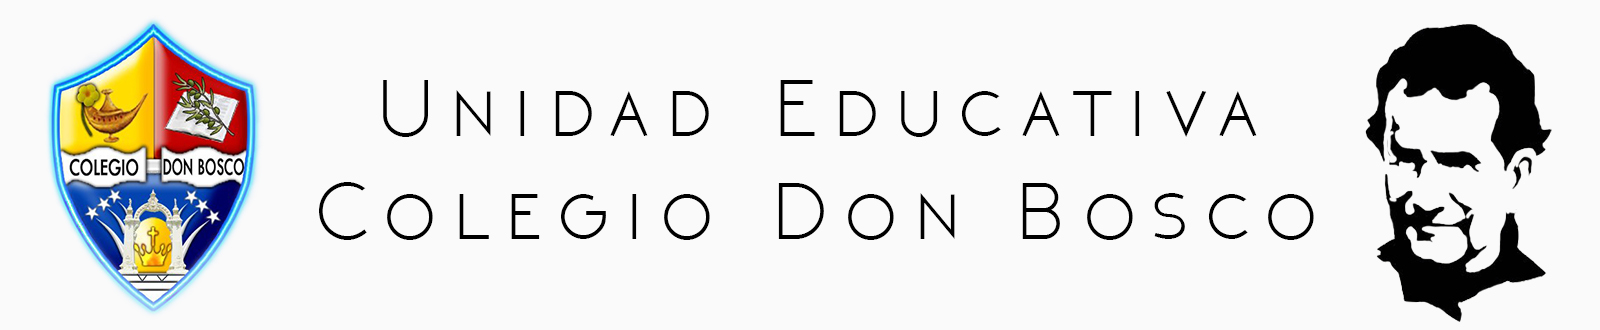
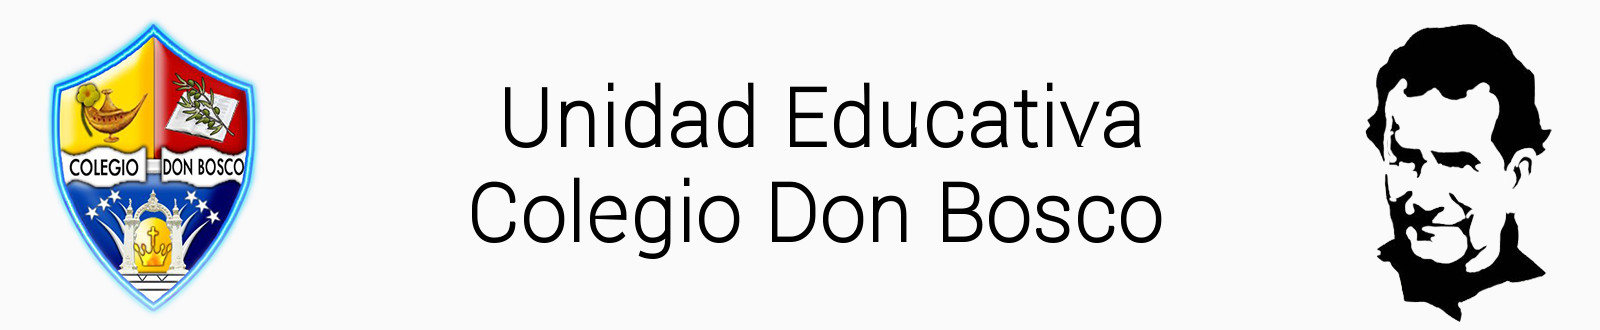
agregando unas cosas de las cual no me acuerdo lol

Changed region(s): [[0.1875, 0.5455, 0.8438, 0.7879], [0.2188, 0.2424, 0.7812, 0.4545], [0.1875, 0.5455, 0.25, 0.6061]]

diff --git a/frontend.html b/frontend.html
@@ -4,7 +4,8 @@
 	<meta charset="utf-8">
 	<link rel="stylesheet" type="text/css" href="css/bootstrap.min.css">
 	<link rel="stylesheet" type="text/css" href="css/bootstrap-theme.min.css">
-	<link rel="stylesheet" type="text/css" href="css/style.css">
+	<link rel="stylesheet" type="text/css" href="css/icomoon.css">
+    <link rel="stylesheet" type="text/css" href="css/style.css">
 	<title>Inicio</title>
 </head>
 <body>
@@ -22,26 +23,35 @@
     </div>
 	
     <div class="row">
-    	<div class="col-lg-12 col-md-12 col-sm-12 col-xs-12">
-
-    			<div class="jumbotron blue-google">
-    				<h1 class="sobig text-center">RAD</h1>
-    				<p class="notsobig text-center">Registro de Asistencia Dactilar</p>
-    			</div>
+        <div class="col-lg-12 col-md-12 col-sm-12 col-xs-12">
+ 		     <div class="jumbotron blue-google">
+   			      <h1 class="sobig text-center">RAD</h1>
+   			      <p class="notsobig text-center">Registro de Asistencia Dactilar</p>
+                  <h3 style="color:#FAFAFA" class="text-center "><span class="icon-birthday-cake2 text-center" style="color:#FAFAFA" style="font:Roboto"></span> Héctor Flores está de cumpleaños!
+            </h3>
+   		     </div>
+        </div>
+    </div>
     	</div>
-    	<div class="container">
+    <div class="row">
+    	<div class="container-fluid">
     		<div class="col-lg-8 col-md-6 col-sm-12 col-xs-12">
     			<div class="container">
     				<p class="insert text-center"><br><br><br>Coloque su <strong class="insert">pulgar</strong> sobre el lector</p>	
    				</div>
 			</div>	
 				<div class="col-lg-4 col-md-6 col-sm-12 col-xs-12">
-					<div class="container">
-						<img src="img/fingerprint.png" class="img-responsive img-thumbnail center-image" width=25%>
+					<div class="container centered-at-last" >
+						<img src="img/fingerprint.png" class="img-responsive img-thumbnail" width=30% >
 					</div>
     			</div>
     	</div>
     </div>	
+    <footer class="lefooter">
+      <div class="container">
+        <img src="img/4wLXqfo.png" width="6%"> <span><h4>RAD</h4></span> 
+      </div>
+    </footer>
 <!-- jQuery (necessary for Bootstrap's JavaScript plugins) -->
 <script src="https://ajax.googleapis.com/ajax/libs/jquery/1.11.2/jquery.min.js"></script>
 <!-- Include all compiled plugins (below), or include individual files as needed -->

diff --git a/css/style.css b/css/style.css
@@ -1,6 +1,6 @@
 @import url(http://fonts.googleapis.com/css?family=Open+Sans);
 @import url(http://fonts.googleapis.com/css?family=Roboto:400,100);
-	
+@import url(http://fonts.googleapis.com/css?family=Oxygen:300&subset=latin,latin-ext);	
 
 body
 {
@@ -18,7 +18,9 @@ body
 	border-width: 1px 1px 2px;
 	border-color: #cfd9db #cfd9db #c0cdd1;
 	border-radius: 3px;
-	box-shadow:2px 2.5px 4px 1px rgba(50, 50, 50, 0.75);
+	-webkit-box-shadow: 3px 3px 1px -1px rgba(0,0,0,0.3);
+	-moz-box-shadow: 3px 3px 1px -1px rgba(0,0,0,0.3);
+	box-shadow: 3px 3px 1px -1px rgba(0,0,0,0.3);
 }
 
 .text-center
@@ -224,7 +226,7 @@ strong.insert{
 }
 p.insert {
 
-	font-family: "Kozuka Gothic Pro";
+	font-family: "Oxygen";
 	color:#1A1A1A;
 
 }
@@ -242,5 +244,10 @@ p.insert {
 }
 
 .centered-at-last {
-	margin: 0 auto;
+	padding-left: 150px;
+}
+
+.lefooter{
+
+	background-color:#E0E0E0;
 }
